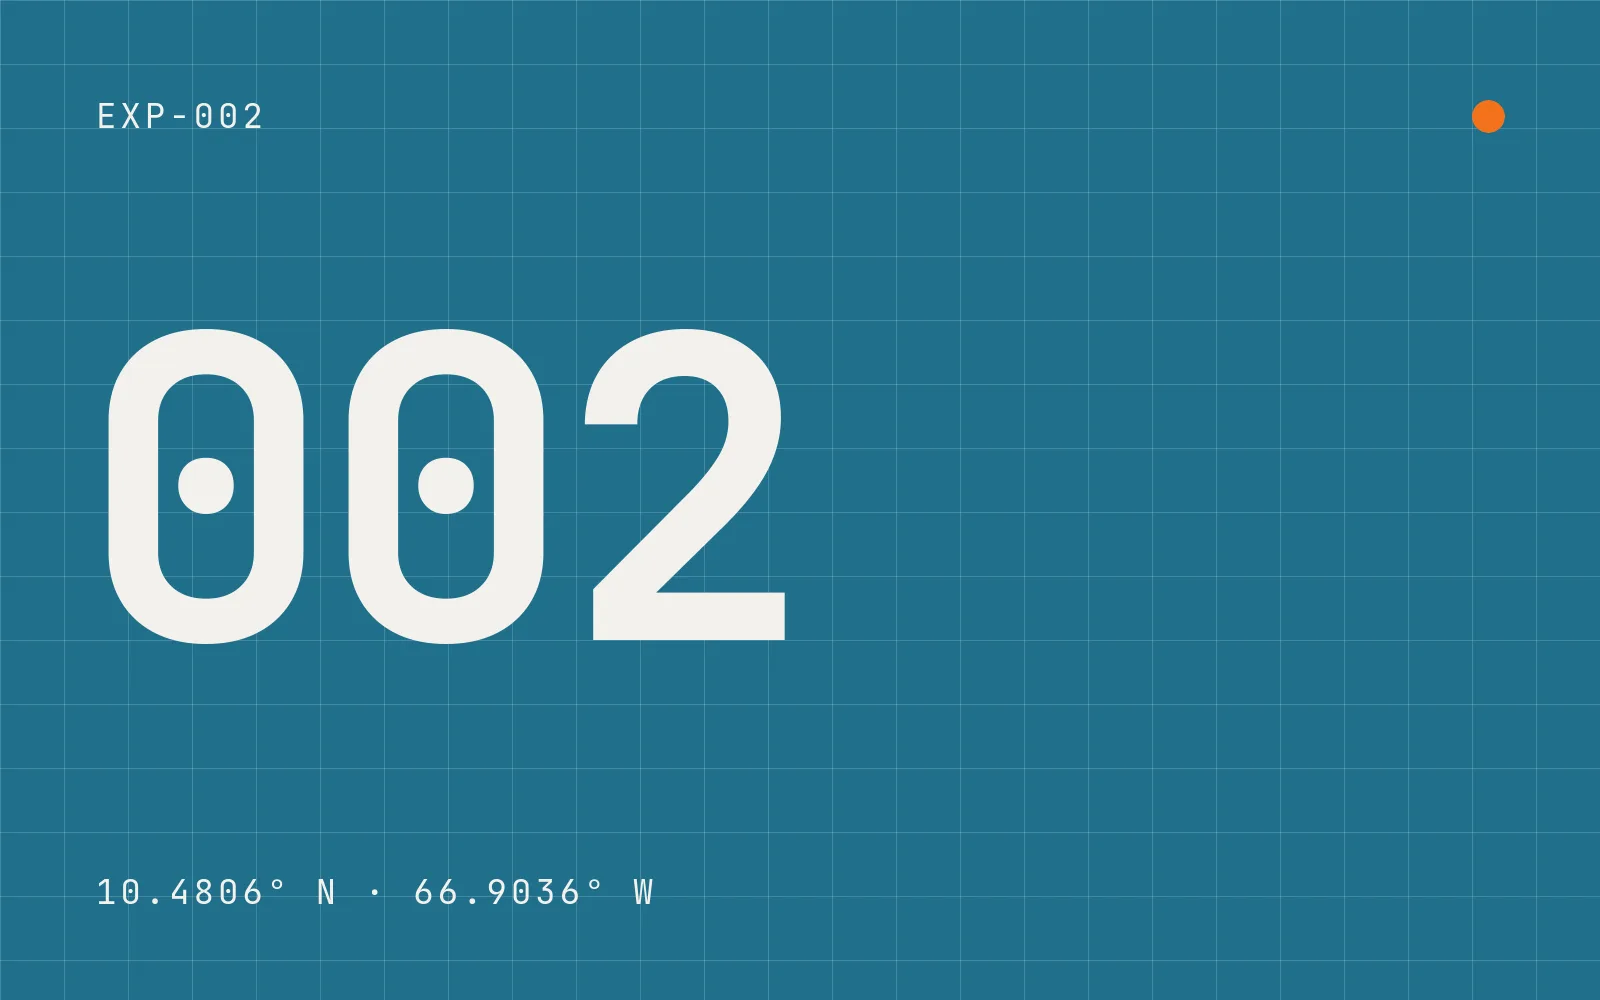
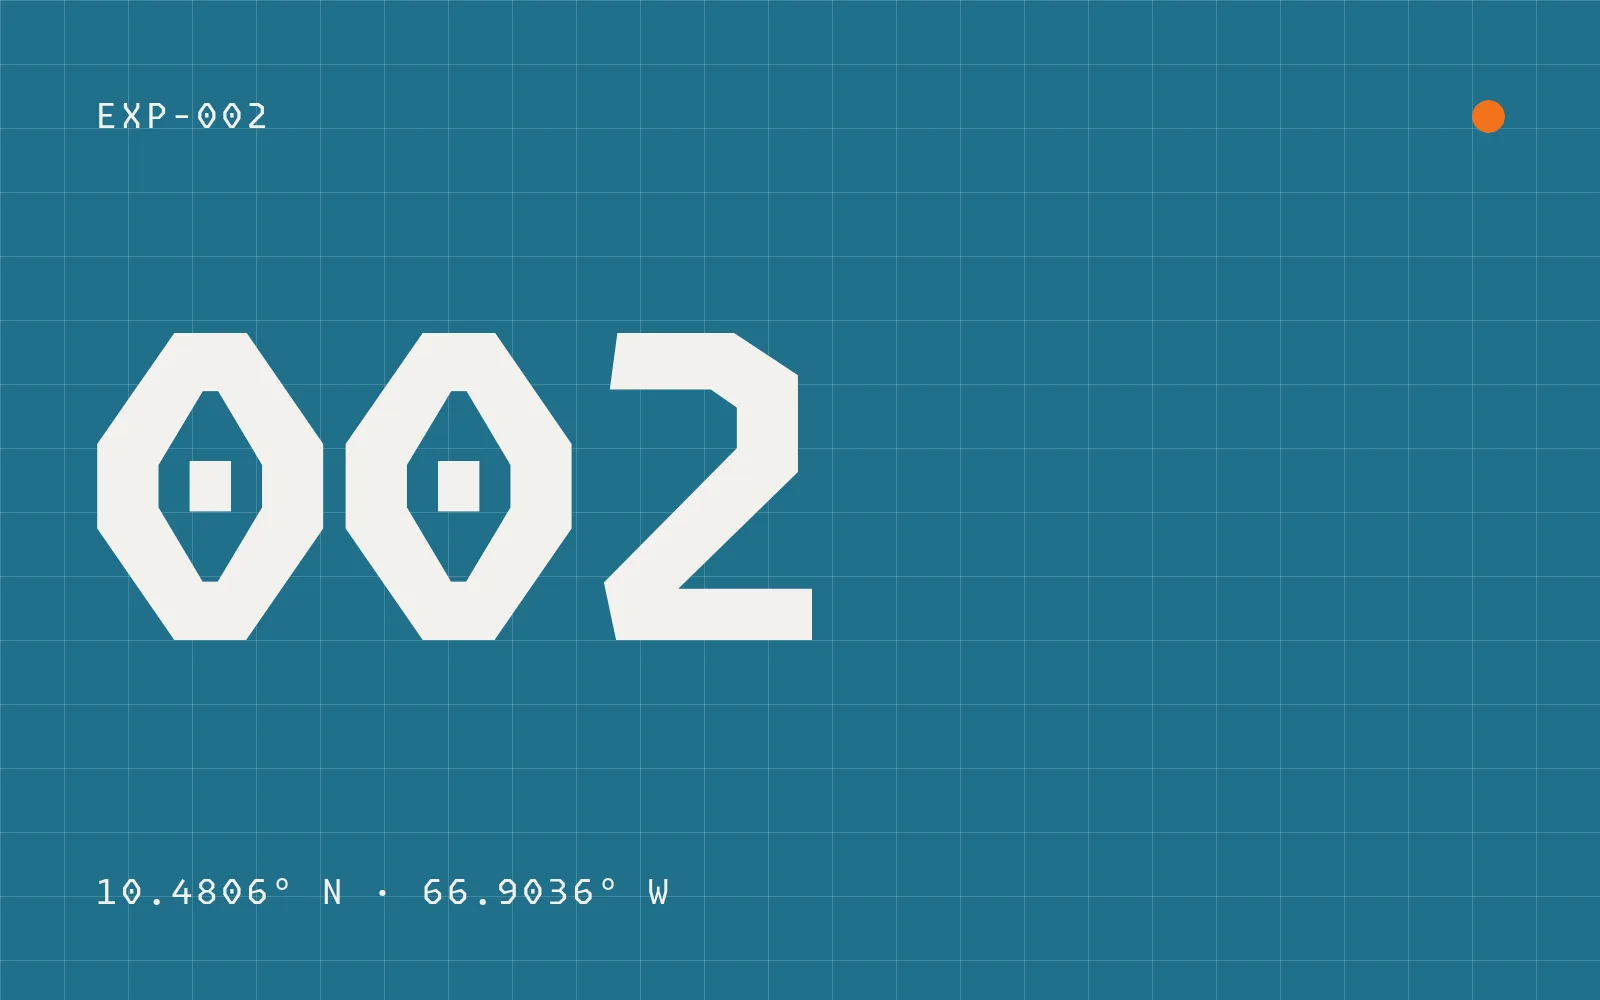
feat: monoespaciada Monaspace Krypton en lugar de JetBrains Mono
- @fontsource/monaspace-krypton 5.3.0 (OFL, self-hosted) sustituye a
  @fontsource-variable/jetbrains-mono. Solo se importa el peso 400, el
  único que usa el sitio: 42,9 KB frente a 40,4 KB de antes. Cubre
  todos los caracteres del sitio (acentos, ñ, ¿¡, °, ·, −).
- spec §6, plan §2, PRODUCT.md, DESIGN.md y su sidecar actualizados.
- Portadas provisionales regeneradas con Krypton.
- El test e2e de fuentes comprueba el estado real de cada FontFace
  (fonts.check() daba true aunque la fuente no estuviera declarada) y
  verifica también la monoespaciada.

diff --git a/tests/e2e/smoke.spec.ts b/tests/e2e/smoke.spec.ts
@@ -23,10 +23,14 @@ test('el inicio existe en ambos idiomas y se enlazan entre sí', async ({ page }
 
 test('las fuentes self-hosted cargan', async ({ page }) => {
   await page.goto('/');
+  // fonts.check() da true también si la fuente no está declarada: se mira el estado real de cada FontFace
   const loaded = await page.evaluate(async () => {
     await document.fonts.ready;
-    return document.fonts.check('1rem "Space Grotesk Variable"');
+    const isLoaded = (family: string) =>
+      [...document.fonts].some((face) => face.family.replace(/["']/g, '') === family && face.status === 'loaded');
+    return { display: isLoaded('Space Grotesk Variable'), mono: isLoaded('Monaspace Krypton') };
   });
-  expect(loaded).toBe(true);
+  expect(loaded).toEqual({ display: true, mono: true });
   await expect(page.locator('h1')).toHaveCSS('font-family', /Space Grotesk Variable/);
+  await expect(page.locator('nav a').first()).toHaveCSS('font-family', /Monaspace Krypton/);
 });

diff --git a/src/styles/global.css b/src/styles/global.css
@@ -1,6 +1,7 @@
 @import 'tailwindcss';
 @import '@fontsource-variable/space-grotesk';
-@import '@fontsource-variable/jetbrains-mono';
+/* Mono: solo el peso 400, el único que usa el sitio */
+@import '@fontsource/monaspace-krypton/400.css';
 
 /*
   Temas (spec §6). Reglas de contraste (constitución III):
@@ -72,10 +73,10 @@
   --color-line: var(--line);
 }
 
-/* Tipografía: display y cuerpo en Space Grotesk, etiquetas en JetBrains Mono */
+/* Tipografía: display y cuerpo en Space Grotesk, etiquetas en Monaspace Krypton */
 @theme {
   --font-sans: 'Space Grotesk Variable', ui-sans-serif, system-ui, sans-serif;
-  --font-mono: 'JetBrains Mono Variable', ui-monospace, monospace;
+  --font-mono: 'Monaspace Krypton', ui-monospace, monospace;
 
   /* Escala fluida entre 360px y 1440px de ancho */
   --text-xs: clamp(0.75rem, 0.72rem + 0.12vw, 0.8125rem);

diff --git a/DESIGN.md b/DESIGN.md
@@ -34,7 +34,7 @@ typography:
     fontWeight: 400
     lineHeight: 1.5
   label:
-    fontFamily: "JetBrains Mono Variable, ui-monospace, monospace"
+    fontFamily: "Monaspace Krypton, ui-monospace, monospace"
     fontSize: "clamp(0.75rem, 0.72rem + 0.12vw, 0.8125rem)"
     fontWeight: 400
     letterSpacing: "0.05em"
@@ -79,7 +79,7 @@ Lo que el sitio rechaza: la plantilla SaaS genérica (gradientes morados, tarjet
 **Key Characteristics:**
 - Cuatro temas de color que cambian el fondo completo; el visitante elige y el sitio lo recuerda.
 - Retícula de 64 px como papel de fondo, siempre decorativa.
-- Display enorme y apretado en Space Grotesk; anotaciones en JetBrains Mono, mayúsculas y espaciadas.
+- Display enorme y apretado en Space Grotesk; anotaciones en Monaspace Krypton, mayúsculas y espaciadas.
 - Esquinas rectas en todo; el círculo solo para muestras de color e indicadores.
 - Plano en reposo; la sombra solo aparece como respuesta a un estado.
 - Mezcla sólido + fino: el CTA principal es un bloque sólido y táctil, todo lo demás es línea fina y texto.
@@ -128,9 +128,9 @@ Los componentes nunca usan un color de tema directamente: usan los roles (`--bg`
 
 **Display Font:** Space Grotesk Variable (con `ui-sans-serif, system-ui, sans-serif`)
 **Body Font:** Space Grotesk Variable (misma familia)
-**Label/Mono Font:** JetBrains Mono Variable (con `ui-monospace, monospace`)
+**Label/Mono Font:** Monaspace Krypton, solo peso 400 (con `ui-monospace, monospace`)
 
-**Character:** Una grotesca geométrica con rarezas (la «a», la «G») que en tamaño display se siente construida a mano, y una mono de programador para las anotaciones del cuaderno. La grotesca habla; la mono numera, etiqueta y mide.
+**Character:** Una grotesca geométrica con rarezas (la «a», la «G») que en tamaño display se siente construida a mano, y Monaspace Krypton, una mono mecánica de trazo técnico, para las anotaciones del cuaderno. La grotesca habla; la mono numera, etiqueta y mide. Si alguna anotación necesita otro peso de Krypton, se importa solo ese peso (cada uno pesa ~43 KB).
 
 ### Hierarchy
 - **Display** (700, `clamp(2.75rem → 6.25rem)`, interlineado 0.95, tracking −0.03em): titular del hero y nombres de proyecto en la vista lista. Una por pantalla.
@@ -199,7 +199,7 @@ Todavía no hay botones implementados. Se aplican estas reglas al construirlos:
 ### Do:
 - **Do** usar siempre los roles (`--bg`, `--fg`, `--accent`, `--accent-ink`, `--on-accent`…) y nunca un hex de tema directamente en un componente (la excepción son las muestras del selector de tema).
 - **Do** verificar cada pieza nueva en los cuatro temas y con `prefers-reduced-motion: reduce`.
-- **Do** poner numeración, etiquetas, fechas y metadatos en JetBrains Mono mayúscula con tracking 0.05em.
+- **Do** poner numeración, etiquetas, fechas y metadatos en Monaspace Krypton mayúscula con tracking 0.05em.
 - **Do** mantener las esquinas rectas (0 px) y reservar el círculo para colores e indicadores.
 - **Do** separar zonas con línea de 1 px o cambio de tono `--bg` → `--surface`.
 - **Do** animar solo `transform` y `opacity`, y solo para guiar la lectura o confirmar una acción.

diff --git a/PRODUCT.md b/PRODUCT.md
@@ -45,7 +45,7 @@ Lo creativo y lo técnico pesan lo mismo: el sitio es un **laboratorio creativo*
 - **Nombre:** «[A]nkordev», con corchetes. Así se escribe en el logotipo, el título y los textos. Sustituye al marcador `{{MARCA}}` / la propuesta «Ankor» de la spec.
 - **Voz:** neutra, sin tratar al visitante de tú ni de usted. La primera persona del autor sí se usa («Diseño y desarrollo…», «Sobre mí»). Directa y sin jerga corporativa.
 - Sello de origen «Hecho en Venezuela» y reloj con la hora de Caracas en el footer.
-- Los 4 temas de color, la tipografía (Space Grotesk / JetBrains Mono) y los elementos de laboratorio están fijados en la spec §6 y ya implementados; los registra DESIGN.md, no este archivo.
+- Los 4 temas de color, la tipografía (Space Grotesk / Monaspace Krypton) y los elementos de laboratorio están fijados en la spec §6 y ya implementados; los registra DESIGN.md, no este archivo.
 
 ## Evidence on Hand
 

diff --git a/docs/specs/001-portafolio/spec.md b/docs/specs/001-portafolio/spec.md
@@ -67,7 +67,7 @@ El tema elegido se recuerda en visitas posteriores.
 
 ### Tipografía y elementos de laboratorio
 
-- Display grande y fluida (Space Grotesk); etiquetas en monoespaciada (JetBrains Mono), mayúsculas.
+- Display grande y fluida (Space Grotesk); etiquetas en monoespaciada (Monaspace Krypton), mayúsculas.
 - Retícula fina de fondo, numeración (`001`, `002`), etiquetas tipo `EXP-001` o `[ 01 / SERVICIOS ]`, coordenadas decorativas, cursor personalizado (solo en escritorio).
 
 ## 7. Movimiento

diff --git a/docs/specs/001-portafolio/plan.md b/docs/specs/001-portafolio/plan.md
@@ -32,7 +32,7 @@
 - **GSAP** (core, ScrollTrigger, SplitText) + **Lenis**
 - **Supabase** (solo tabla `leads`)
 - **Zod** (`astro/zod`), **Cloudflare Turnstile**
-- Fuentes `@fontsource`: Space Grotesk, JetBrains Mono
+- Fuentes `@fontsource`: Space Grotesk, Monaspace Krypton
 - Testing: **Vitest**, **Playwright**, **@axe-core/playwright**, **Lighthouse CI**
 - Calidad: TypeScript estricto, `astro check`, GitHub Actions, Dependabot
 
